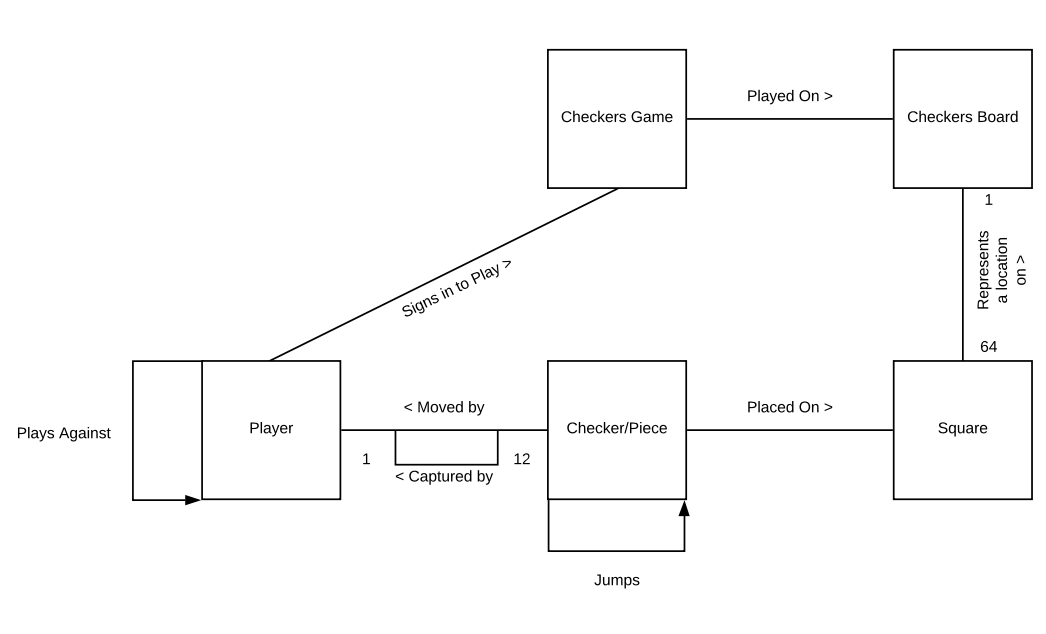
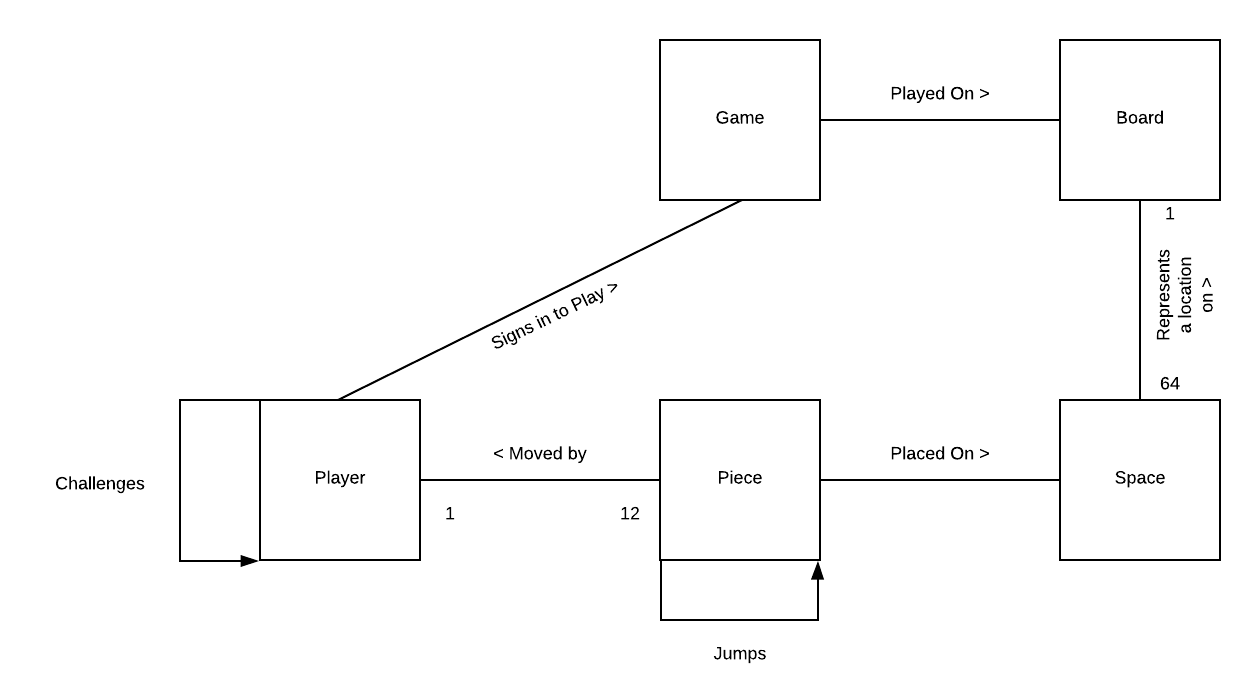
Editing design doc

diff --git a/docs/DesignDoc.md b/docs/DesignDoc.md
@@ -3,11 +3,6 @@ geometry: margin=1in
 ---
 # PROJECT Design Documentation
 
-> _The following template provides the headings for your Design
-> Documentation.  As you edit each section make sure you remove these
-> commentary 'blockquotes'; the lines that start with a > character
-> and appear in the generated PDF in italics._
-
 ## Team Information
 * Team name: Banana
 * Team members
@@ -53,14 +48,14 @@ any time.
 - Player Sign-Out
 - Start A Game
 - Piece Movement
-  : Normal Move
-  : Jump Move
-  : Multiple Jump Move
+  * Normal Move
+  * Jump Move
+  * Multiple Jump Move
 - King Pieces
 - End Game
-  : Player Resigns
-  : All Pieces Eliminated
-  : No More Valid Moves
+  * Player Resigns
+  * All Pieces Eliminated
+  * No More Valid Moves
 
 ### Roadmap of Enhancements
 1. AI Player: Players may play a game against an artificial intelligence player.
@@ -78,8 +73,8 @@ This section describes the application domain.
 ![The WebCheckers Domain Model](domain-model.png)
 
 Players sign in to play the game of checkers. The game is played on a standard 8x8
-checkers board. The checker pieces are located on individual spaces. Players play
-against another player, taking turns moving pieces and capturing their opponents pieces.
+checkers board. The pieces are located on individual spaces. Players play against
+another player, taking turns moving pieces and capturing their opponents pieces.
 
 
 ## Architecture and Design
@@ -98,7 +93,8 @@ some minimal CSS for styling the page.  There is also some JavaScript
 that has been provided to the team by the architect.
 
 The server-side tiers include the UI Tier that is composed of UI Controllers and Views.
-Controllers are built using the Spark framework and View are built using the FreeMarker framework.  The Application and Model tiers are built using plain-old Java objects (POJOs).
+Controllers are built using the Spark framework and View are built using the FreeMarker framework.
+The Application and Model tiers are built using plain-old Java objects (POJOs).
 
 Details of the components within these tiers are supplied below.
 
@@ -115,8 +111,11 @@ Upon visiting the sign in page, users are prompted to enter a username. A userna
 specific criteria to be valid. Once a user has signed in, they will be able to see other players
 that are signed in on the home page. The user can start a game by selecting another player that
 is not yet in a game. When a game starts, the user that starts the game gets to go first. Each player
-takes turns making moves until a winner has been decided. When a game of checkers is over, both users will
-return to the home page.
+takes turns making moves until a winner has been decided. A turn consists of a player making a valid
+move on the board and then having a choice of confirming or undoing their move using the submit turn
+and backup buttons. A player may also choose to resign from the game before making a move. When a
+game of checkers is over, both users will see a message indicating the outcome of the game and now
+be able to go back to the home page to start a new game.
 
 
 ### UI Tier
